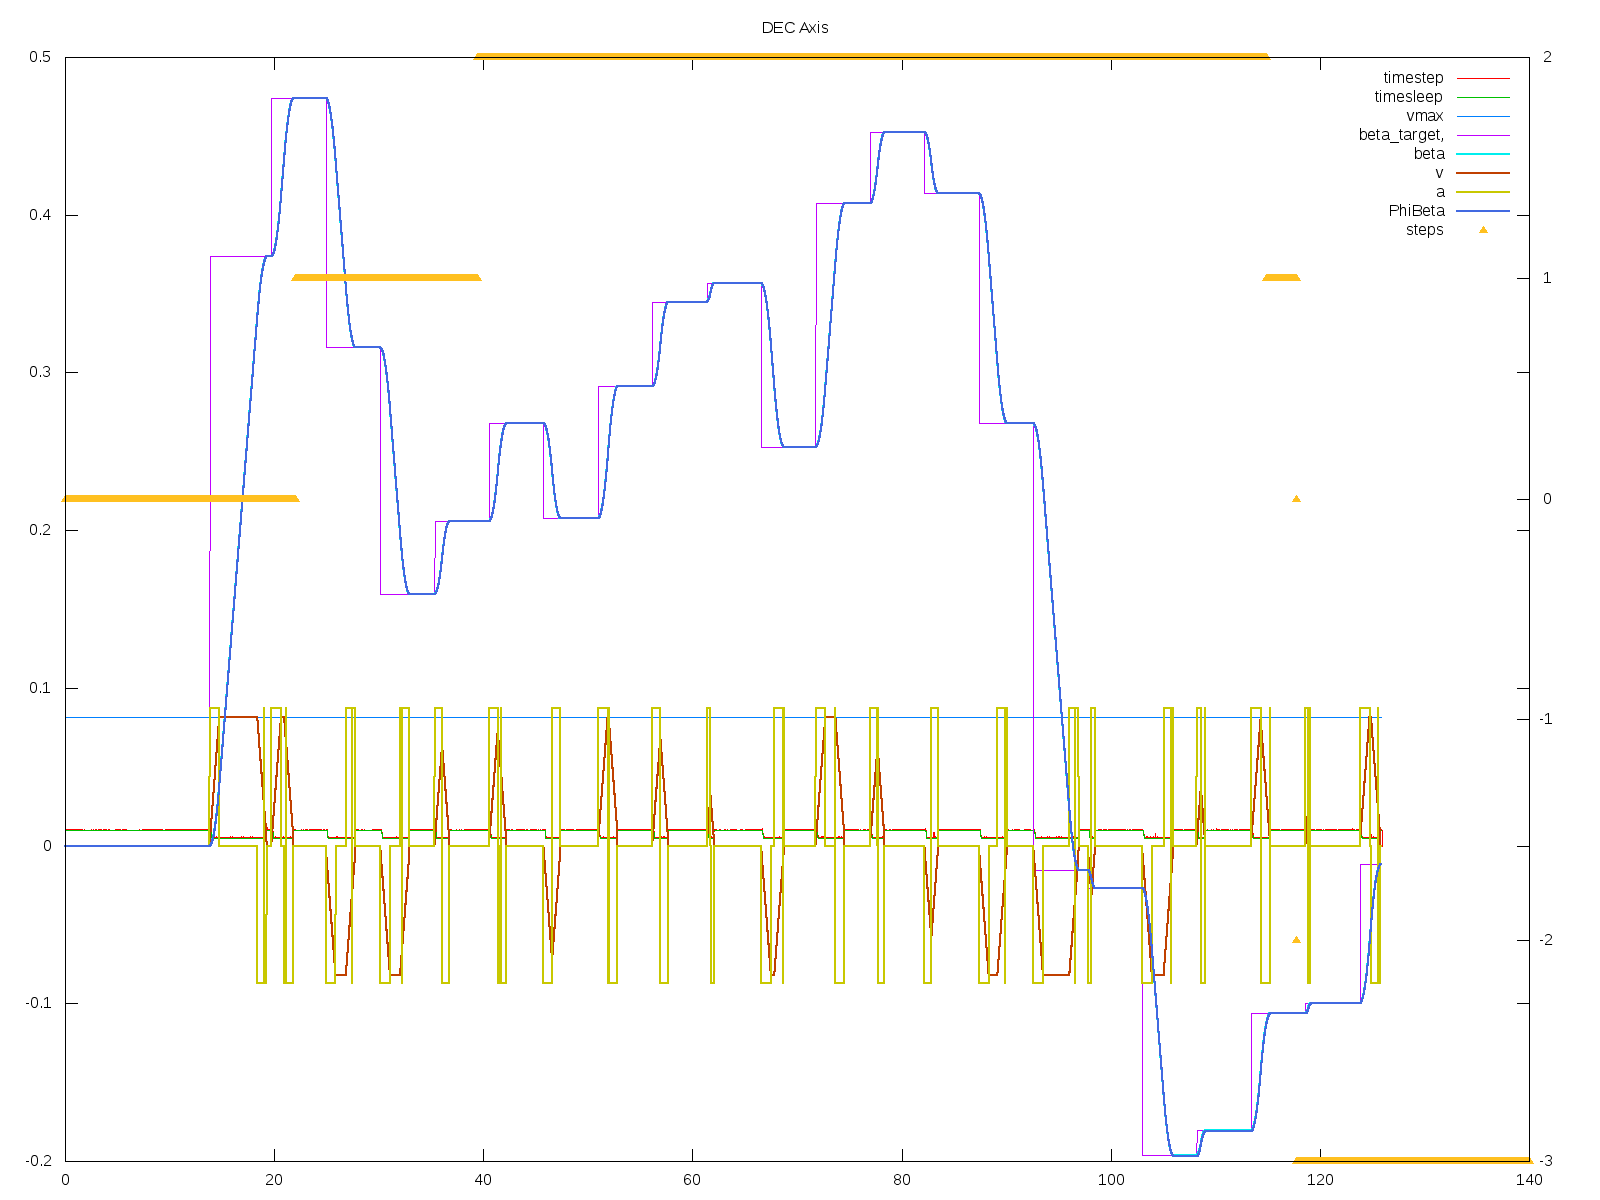
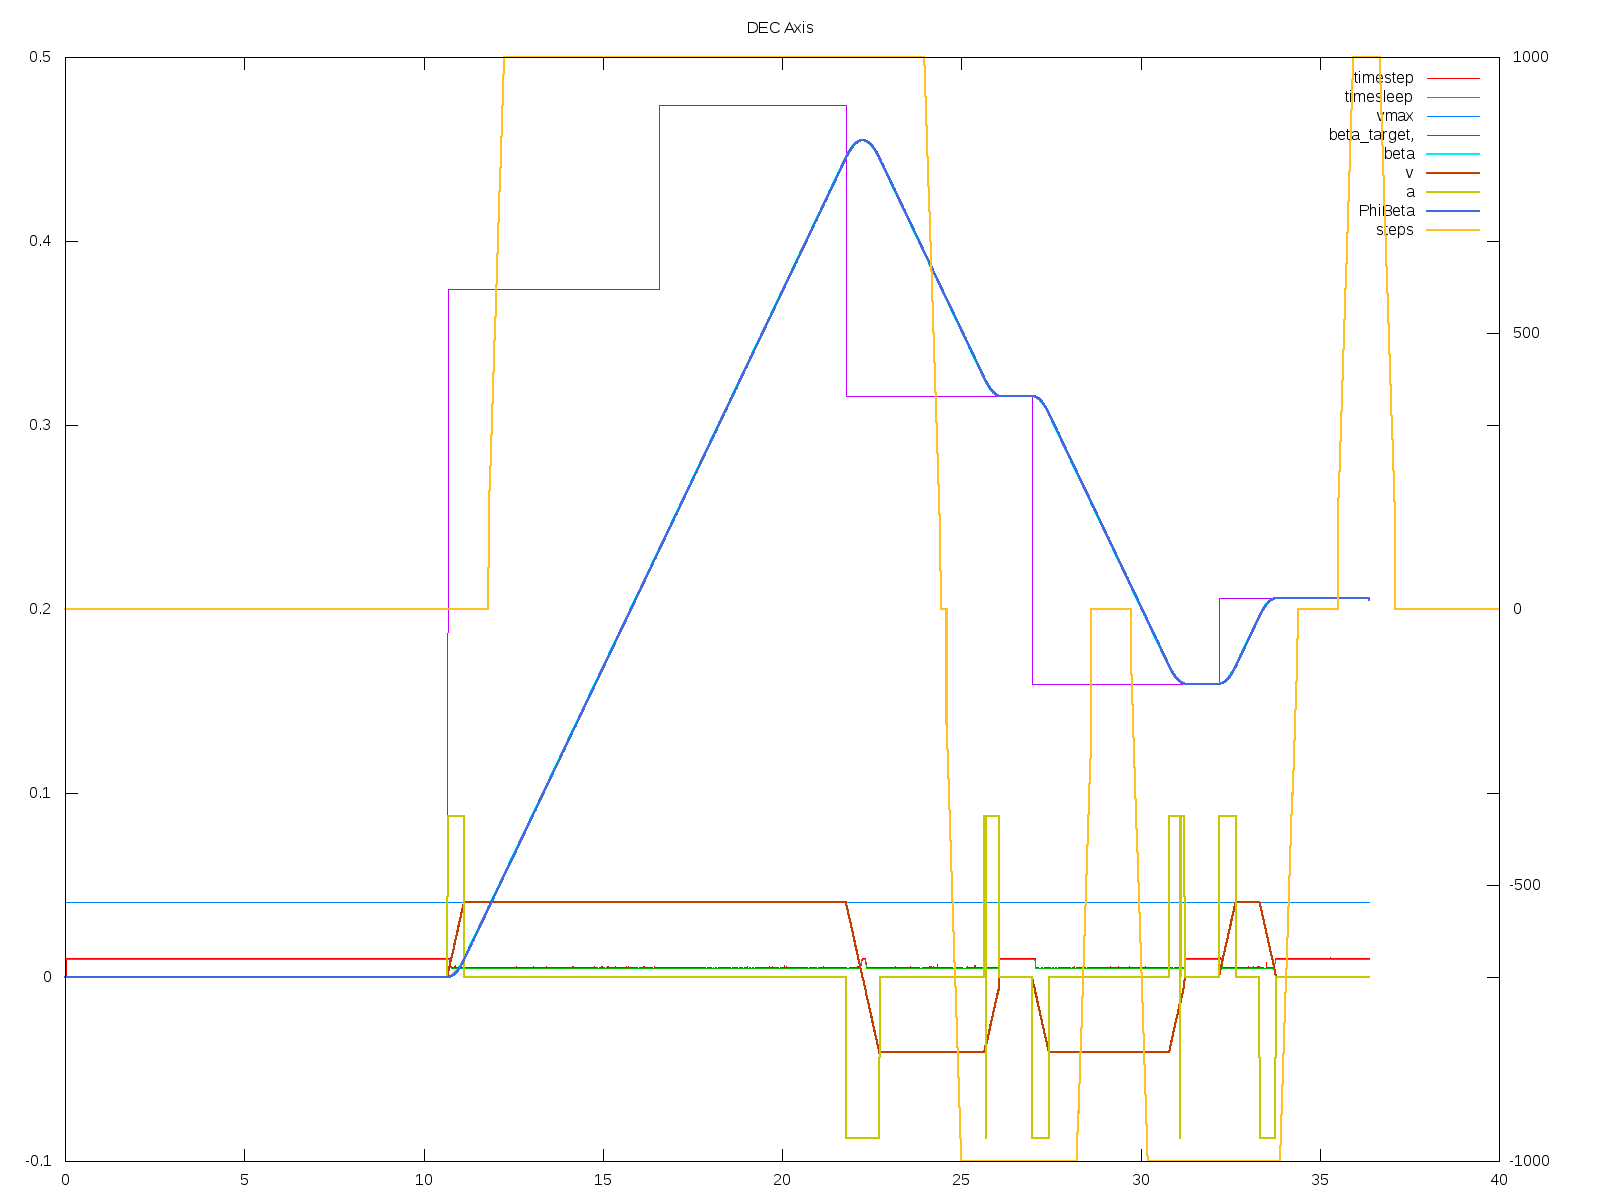
Fix phiBeta overshoot

diff --git a/ramps.py b/ramps.py
@@ -211,7 +211,7 @@ class AxisDriver(axis):
 		self.DIR_PIN=DIR_PIN
 		cb1 = self.pi.callback(self.PIN, pigpio.RISING_EDGE, self.stepCounter)
 		#cb2 = self.pi.callback(self.PIN, pigpio.FALLING_EDGE, self.falling)
-		self.stepsPerRevolution=200*16*24	#Motor:steps*microsteps*gearbox
+		self.stepsPerRevolution=200*32*24	#Motor:steps*microsteps*gearbox
 		self.corona=500
 		self.plate=500
 		self.FullTurnSteps=self.plate*self.stepsPerRevolution/self.corona
@@ -230,6 +230,7 @@ class AxisDriver(axis):
 		self.dire=1
 		self.pi.write(self.DIR_PIN, self.dire>0)
 	  	self.pi.set_PWM_dutycycle(self.PIN, 0)
+		self.freq=0
 		self.discarted=0
 		self.discartFlag=False
 		self.lock = threading.Lock()
@@ -255,14 +256,11 @@ class AxisDriver(axis):
 		if self.debug:
 			PhiBeta=float(self.PhiBeta)*self.MinPhiStep
 			#discarted=float(self.discarted)*self.MinPhiStep
-			self.saveDebug(self.discarted,PhiBeta)
-			#self.saveDebug(Isteps,PhiBeta)
-
+			#self.saveDebug(self.discarted,PhiBeta)
+			self.saveDebug(self.freq*self.dire,PhiBeta)
 
 		if Isteps==0:
-			#time.sleep(self.timesleep)
 			return		
-
 
 		#calculate direction of motion
 		if self.dire*Isteps<0:
@@ -302,43 +300,39 @@ class AxisDriver(axis):
 		#Arrived. Stop PWM
 	   	with self.lock:
 		    if abs(self.stepTarget-self.PhiBeta) == 0:
+			self.freq=0
 			self.discartFlag=True
-			self.pi.hardware_PWM(self.PIN,0,0)
+			self.pi.hardware_PWM(self.PIN,0,self.pulseDuty*1000000)
 
 		
-
-	@threaded
-	def stepQueueK(self):
-	  #print self.PhiBeta,self.stepTarget
-	  while not self.kill:
-	     with self.lock:
-		if abs(self.stepTarget-self.PhiBeta) != 0:
-		        #print self.name,self.PhiBeta,self.stepTarget
-			self.discartFlag=False
-			self.pi.write(self.PIN, 1)
-			time.sleep(self.pulseWidth*self.pulseDuty)
-			self.pi.write(self.PIN, 0)
-			time.sleep(self.pulseWidth*(1.-self.pulseDuty))
-	  print "STEPS QUEUE END"
-	  time.sleep(0.1)		
 
 
 	@threaded
 	def stepQueue(self):
  	  while not self.kill:
 		with self.lock:
-		   if abs(self.stepTarget-self.PhiBeta) != 0:
+		   delta=self.stepTarget-self.PhiBeta
+		   if abs(delta) != 0:
+			#calculate direction of motion
+			if self.dire*delta<0:
+				self.dire=math.copysign(1,delta)
+				self.pi.write(self.DIR_PIN, self.dire>0)
+
 			if self.v!=0:
 				freq=round(abs(self.v)*1/self.MinPhiStep)
 			else:
-				#BAD HACK!!! just in case v=0 but don't phi arrive
-				#print "HACK!"
-				vv=abs(self.stepTarget-self.PhiBeta+self.discarted)
-				freq=round(vv*100)
+				pass
+				#if self.v==0 hold the last freq value
 			if freq  >=1/self.pulseWidth:
 				freq=1/self.pulseWidth
-			self.pi.hardware_PWM(self.PIN,freq,self.pulseDuty*1000000)
+			self.freq=freq
+			self.pi.hardware_PWM(self.PIN,self.freq,self.pulseDuty*1000000)
 		   	self.discartFlag=False
+		   else:
+			self.freq=0
+			self.discartFlag=True
+			self.pi.hardware_PWM(self.PIN,0,self.pulseDuty*1000000)
+
 		time.sleep(self.pulseWidth)
 	  print "STEPS QUEUE END"
 	  self.pi.hardware_PWM(self.PIN,0,0)
@@ -447,27 +441,6 @@ if __name__ == '__main__':
 		#print RA_axis.beta,RA_axis.v,RA_axis.a,x
 	RA_axis.kill=True
 
-	'''
-	RA_axis.track(-0.3)
-	time.sleep(2)
-	RA_axis.slew(1.4)
-	time.sleep(4)
-	RA_axis.slew(-1.3)
-	time.sleep(3)
-	RA_axis.slew(1.2)
-	time.sleep(4)
-	RA_axis.slew(.2)
-	time.sleep(3)
-	RA_axis.slew(-1.2)
-	time.sleep(3)
-	RA_axis.track(0.3)
-	time.sleep(2)
-	RA_axis.track(0.4)
-	time.sleep(2)
-	RA_axis.track(0.5)
-	time.sleep(2)
-	RA_axis.track(0.)
-	time.sleep(2)
-	'''
+
 
 
